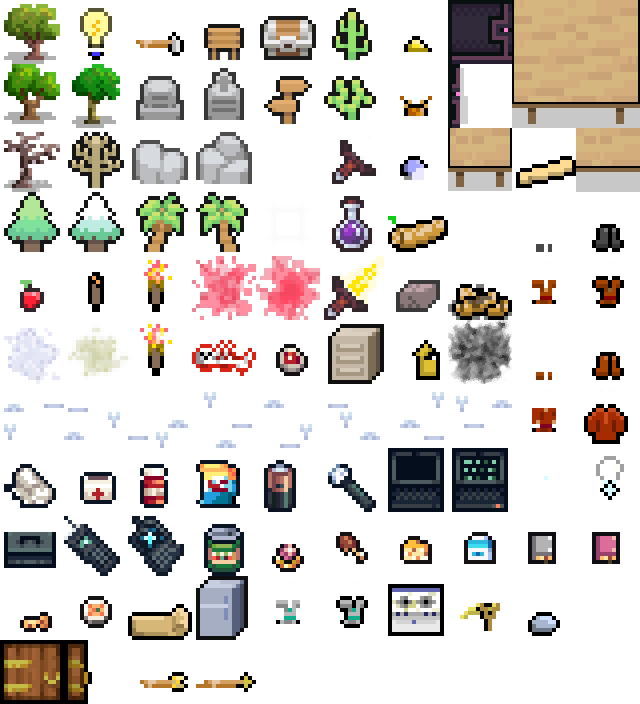
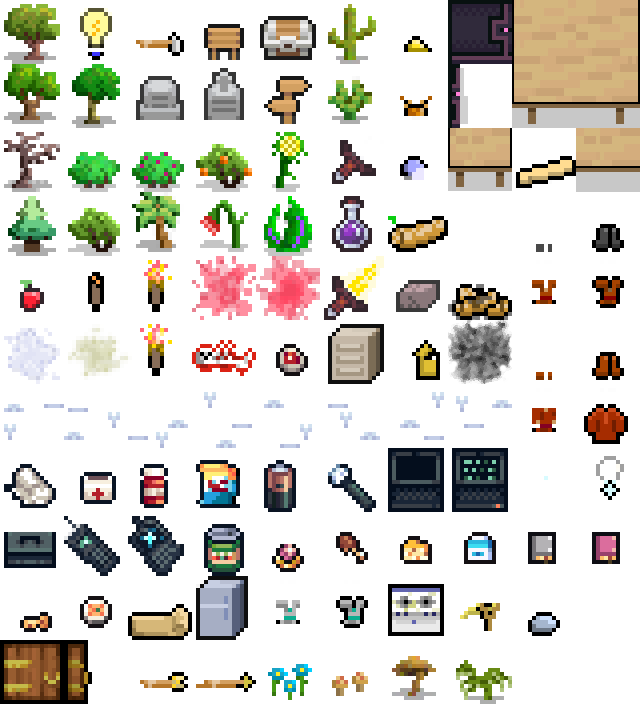
plant sprites and water improvement

Changed region(s): [[0.0, 0.1875, 0.5, 0.375], [0.4062, 0.9062, 0.8125, 1.0], [0.5, 0.0, 0.5938, 0.1875]]

diff --git a/src/main/kotlin/render/tilesets/ThingTileSet.kt b/src/main/kotlin/render/tilesets/ThingTileSet.kt
@@ -25,20 +25,12 @@ fun ThingTileSet() =
             add(0.5f, 4, 1)
         })
         setTile(Glyph.CHEST, SimpleTile(this, 4, 0))
-        setTile(Glyph.CACTUS, VariantsTile(this).apply {
-            add(0.5f, 5, 0)
-            add(0.5f, 5, 1)
-        })
         setTile(Glyph.TOMBSTONE, VariantsTile(this).apply {
             add(0.5f, 2, 1)
             add(0.5f, 2, 2)
         })
         setTile(Glyph.DEAD_TREE, VariantsTile(this).apply {
             add(1f, 0, 2)
-        })
-        setTile(Glyph.BIG_ROCK, VariantsTile(this).apply {
-            add(0.5f, 2, 2)
-            add(0.5f, 2, 3)
         })
         setTile(Glyph.BLADE, SimpleTile(this, 4, 2))
         setTile(Glyph.HILT, SimpleTile(this, 5, 2))
@@ -138,4 +130,17 @@ fun ThingTileSet() =
         setTile(Glyph.WOOD_DOOR_OPEN, SimpleTile(this, 1, 10))
         setTile(Glyph.TRIDENT, SimpleTile(this, 2, 10))
         setTile(Glyph.SPEAR, SimpleTile(this, 3, 10))
+        setTile(Glyph.BUSH_1, SimpleTile(this, 1, 2))
+        setTile(Glyph.BUSH_1_FRUIT, SimpleTile(this, 2, 2))
+        setTile(Glyph.BUSH_2, SimpleTile(this, 1, 3))
+        setTile(Glyph.BUSH_2_FRUIT, SimpleTile(this, 3, 2))
+        setTile(Glyph.SUNFLOWER, SimpleTile(this, 4, 2))
+        setTile(Glyph.HANGFLOWER, SimpleTile(this, 3, 3))
+        setTile(Glyph.SUCCULENT, SimpleTile(this, 4, 3))
+        setTile(Glyph.FLOWERS, SimpleTile(this, 4, 10))
+        setTile(Glyph.TOADSTOOLS, SimpleTile(this, 5, 10))
+        setTile(Glyph.MUSHROOM, SimpleTile(this, 6, 10))
+        setTile(Glyph.CACTUS_SMALL, SimpleTile(this, 5, 1))
+        setTile(Glyph.CACTUS_BIG, SimpleTile(this, 5, 0))
+        setTile(Glyph.HERB_PLANT_1, SimpleTile(this, 7, 10))
     }

diff --git a/src/main/kotlin/render/batches/QuadBatch.kt b/src/main/kotlin/render/batches/QuadBatch.kt
@@ -5,6 +5,7 @@ import com.badlogic.gdx.graphics.GL20.GL_TEXTURE0
 import com.badlogic.gdx.graphics.VertexAttribute
 import com.badlogic.gdx.graphics.VertexAttributes.Usage
 import render.Screen
+import render.Screen.aspectRatio
 import render.shaders.tileFragShader
 import render.shaders.tileVertShader
 import render.tilesets.TileSet
@@ -48,8 +49,8 @@ class QuadBatch(
         shader.setUniformi("u_Texture", 0)
         shader.setUniformf("u_Time", (Screen.timeMs - startTime).toFloat() / 1000f)
         shader.setUniformf("u_Zoom", Screen.zoom.toFloat())
-        shader.setUniformf("u_CameraX", Screen.cameraPovX.toFloat() / 7f)
-        shader.setUniformf("u_CameraY", Screen.cameraPovY.toFloat() / 8f)
+        shader.setUniformf("u_CameraX", Screen.cameraPovX.toFloat() / 8f)
+        shader.setUniformf("u_CameraY", Screen.cameraPovY.toFloat() / 6f)
     }
 
     override fun dispose() {

diff --git a/src/main/kotlin/render/tilesets/Glyph.kt b/src/main/kotlin/render/tilesets/Glyph.kt
@@ -77,10 +77,8 @@ enum class Glyph {
     AXE,
     SIGN,
     CHEST,
-    CACTUS,
     DEAD_TREE,
     TOMBSTONE,
-    BIG_ROCK,
     BLADE,
     HILT,
     HILT_LIT,
@@ -149,6 +147,19 @@ enum class Glyph {
     ROCK,
     TRIDENT,
     SPEAR,
+    BUSH_1,
+    BUSH_1_FRUIT,
+    BUSH_2,
+    BUSH_2_FRUIT,
+    HANGFLOWER,
+    SUNFLOWER,
+    SUCCULENT,
+    FLOWERS,
+    TOADSTOOLS,
+    MUSHROOM,
+    CACTUS_SMALL,
+    CACTUS_BIG,
+    HERB_PLANT_1,
 
     BLOODSTAIN,
     SCORCHMARK,

diff --git a/src/main/kotlin/render/tileholders/AnimatedTile.kt b/src/main/kotlin/render/tileholders/AnimatedTile.kt
@@ -21,7 +21,7 @@ open class AnimatedTile(
 
     override fun getTextureIndex(level: Level?, x: Int, y: Int): Int {
         level?.also { level ->
-            val frame = abs((Screen.timeMs / frameMs + level.getRandom(x,y)).toInt()) % frames.size
+            val frame = abs((Screen.timeMs + (level.getRandom(x,y) / 200)).toInt() / frameMs ) % frames.size
             return indexFromCoords(frames[frame].first, frames[frame].second)
         }
         return 0

diff --git a/src/main/kotlin/render/tilesets/TerrainTileSet.kt b/src/main/kotlin/render/tilesets/TerrainTileSet.kt
@@ -10,10 +10,11 @@ fun TerrainTileSet() =
         setTile(Glyph.OCCLUSION_SHADOWS_V, SimpleTile(this, 6, 2))
         setTile(Glyph.OCCLUSION_SHADOWS_H, SimpleTile(this, 7, 2))
         setTile(Glyph.SURF, AnimatedTile(this).apply {
-            frameMs = 221
+            frameMs = 282
             add(11, 5)
             add(11, 6)
             add(11, 7)
+            add(11, 6)
         })
 
         setTile(Glyph.CAVE_FLOOR, VariantsTile(this).apply {

diff --git a/src/main/kotlin/render/Screen.kt b/src/main/kotlin/render/Screen.kt
@@ -67,7 +67,7 @@ object Screen : KtxScreen {
     private var savedWindowSize  = XY(0, 0)
     fun savedWindowSize() = if (savedWindowSize.x == 0) XY(width, height) else savedWindowSize
 
-    private var aspectRatio = 1.0
+    var aspectRatio = 1.0
     private var tileStride: Double = 0.01
     var renderTilesWide = 80
     var renderTilesHigh = 50
